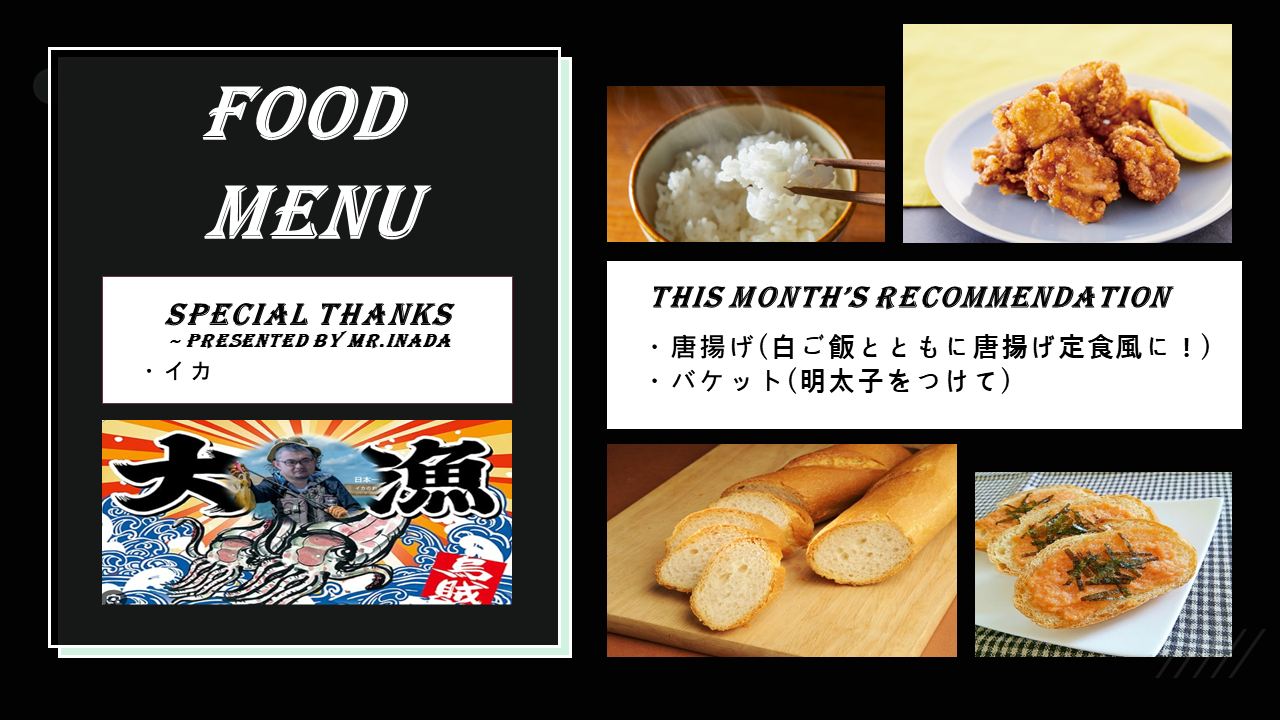
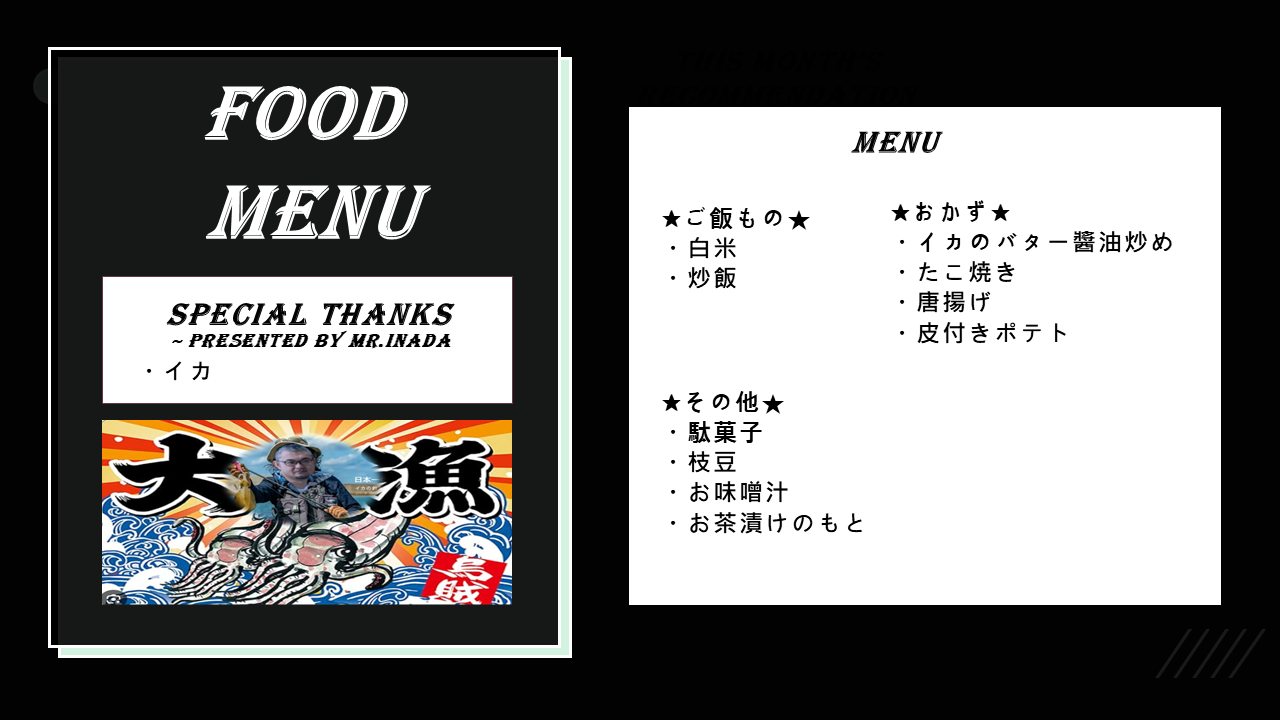
画像差し替え

diff --git a/script.js b/script.js
@@ -13,6 +13,7 @@ document.addEventListener("DOMContentLoaded", () => {
         "Menu003.png",
         "Menu004.png",
         "Menu005.png",
+        "Menu006.png",
     ];
 
     const menuVoicePaths = [
@@ -21,6 +22,7 @@ document.addEventListener("DOMContentLoaded", () => {
         "MenuVoice003.mp3",
         "MenuVoice004.mp3",
         "MenuVoice005.mp3",
+        "MenuVoice006.mp3",
     ];
 
     // スリープBlock
